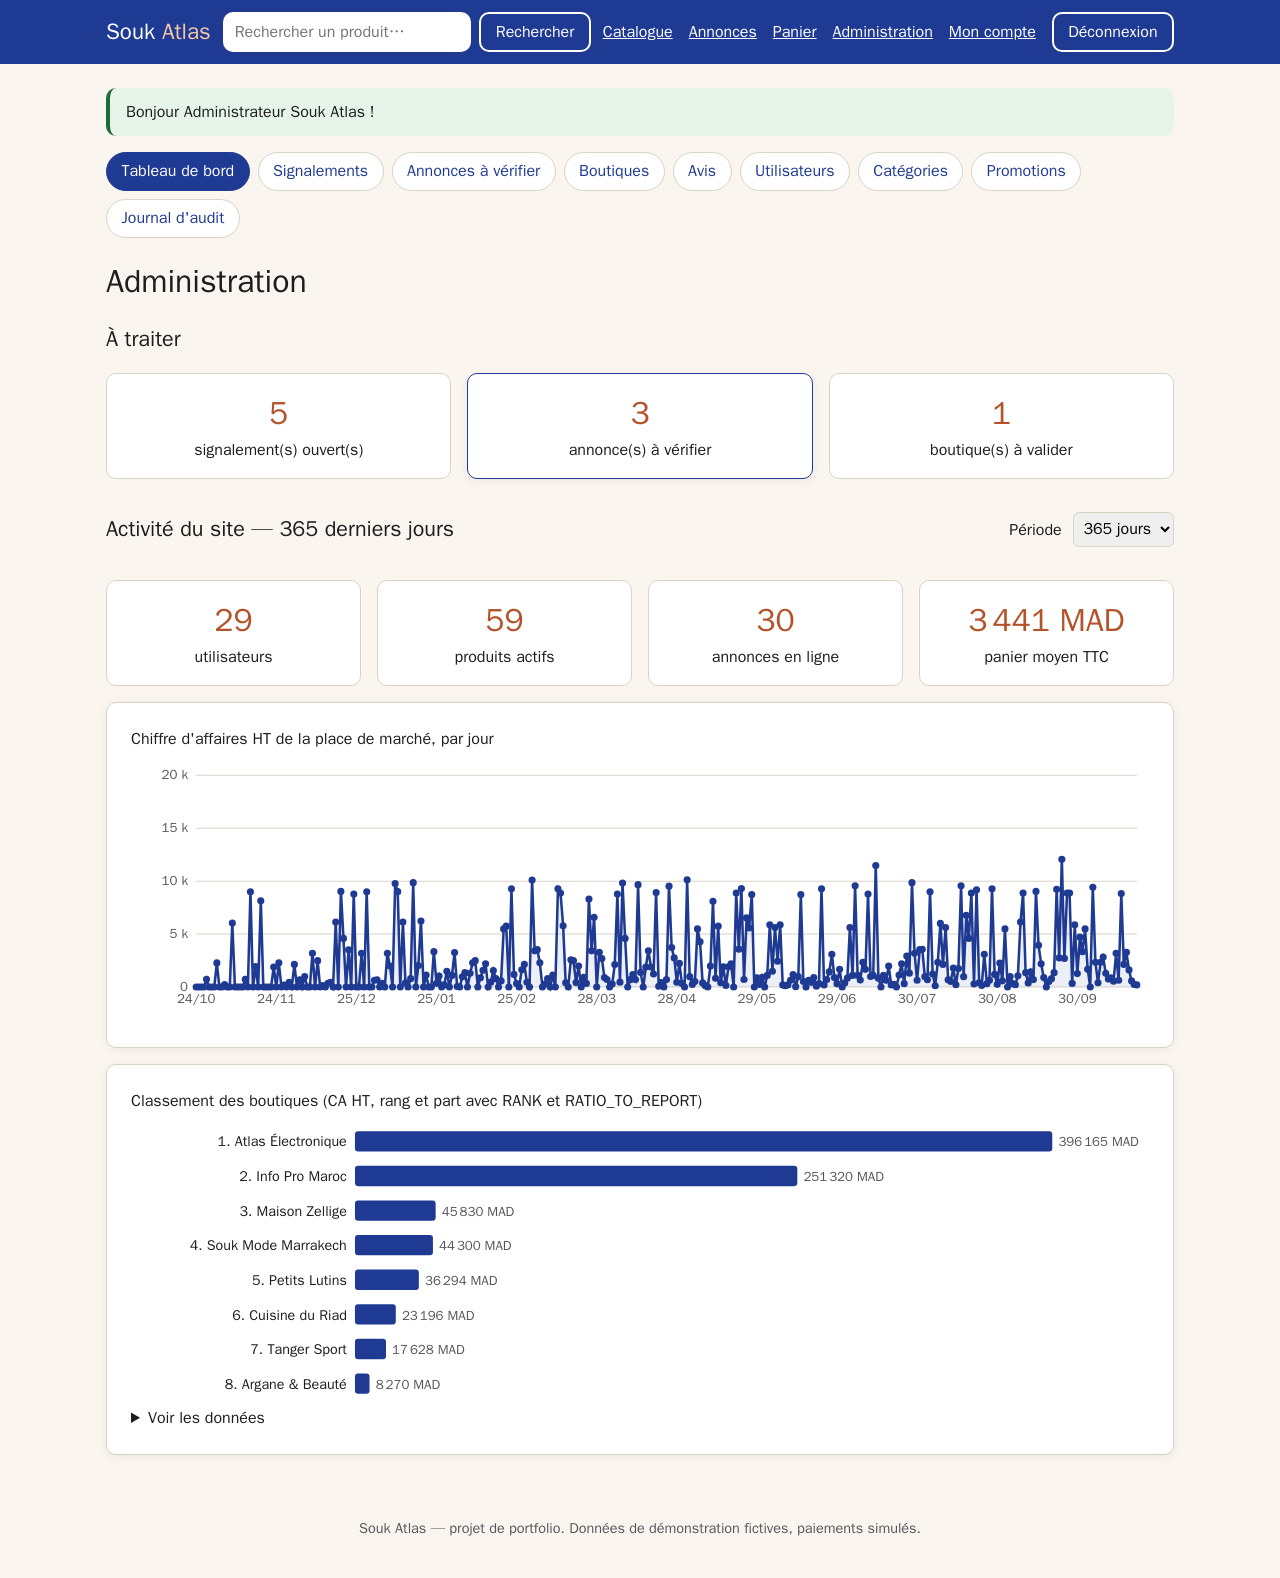
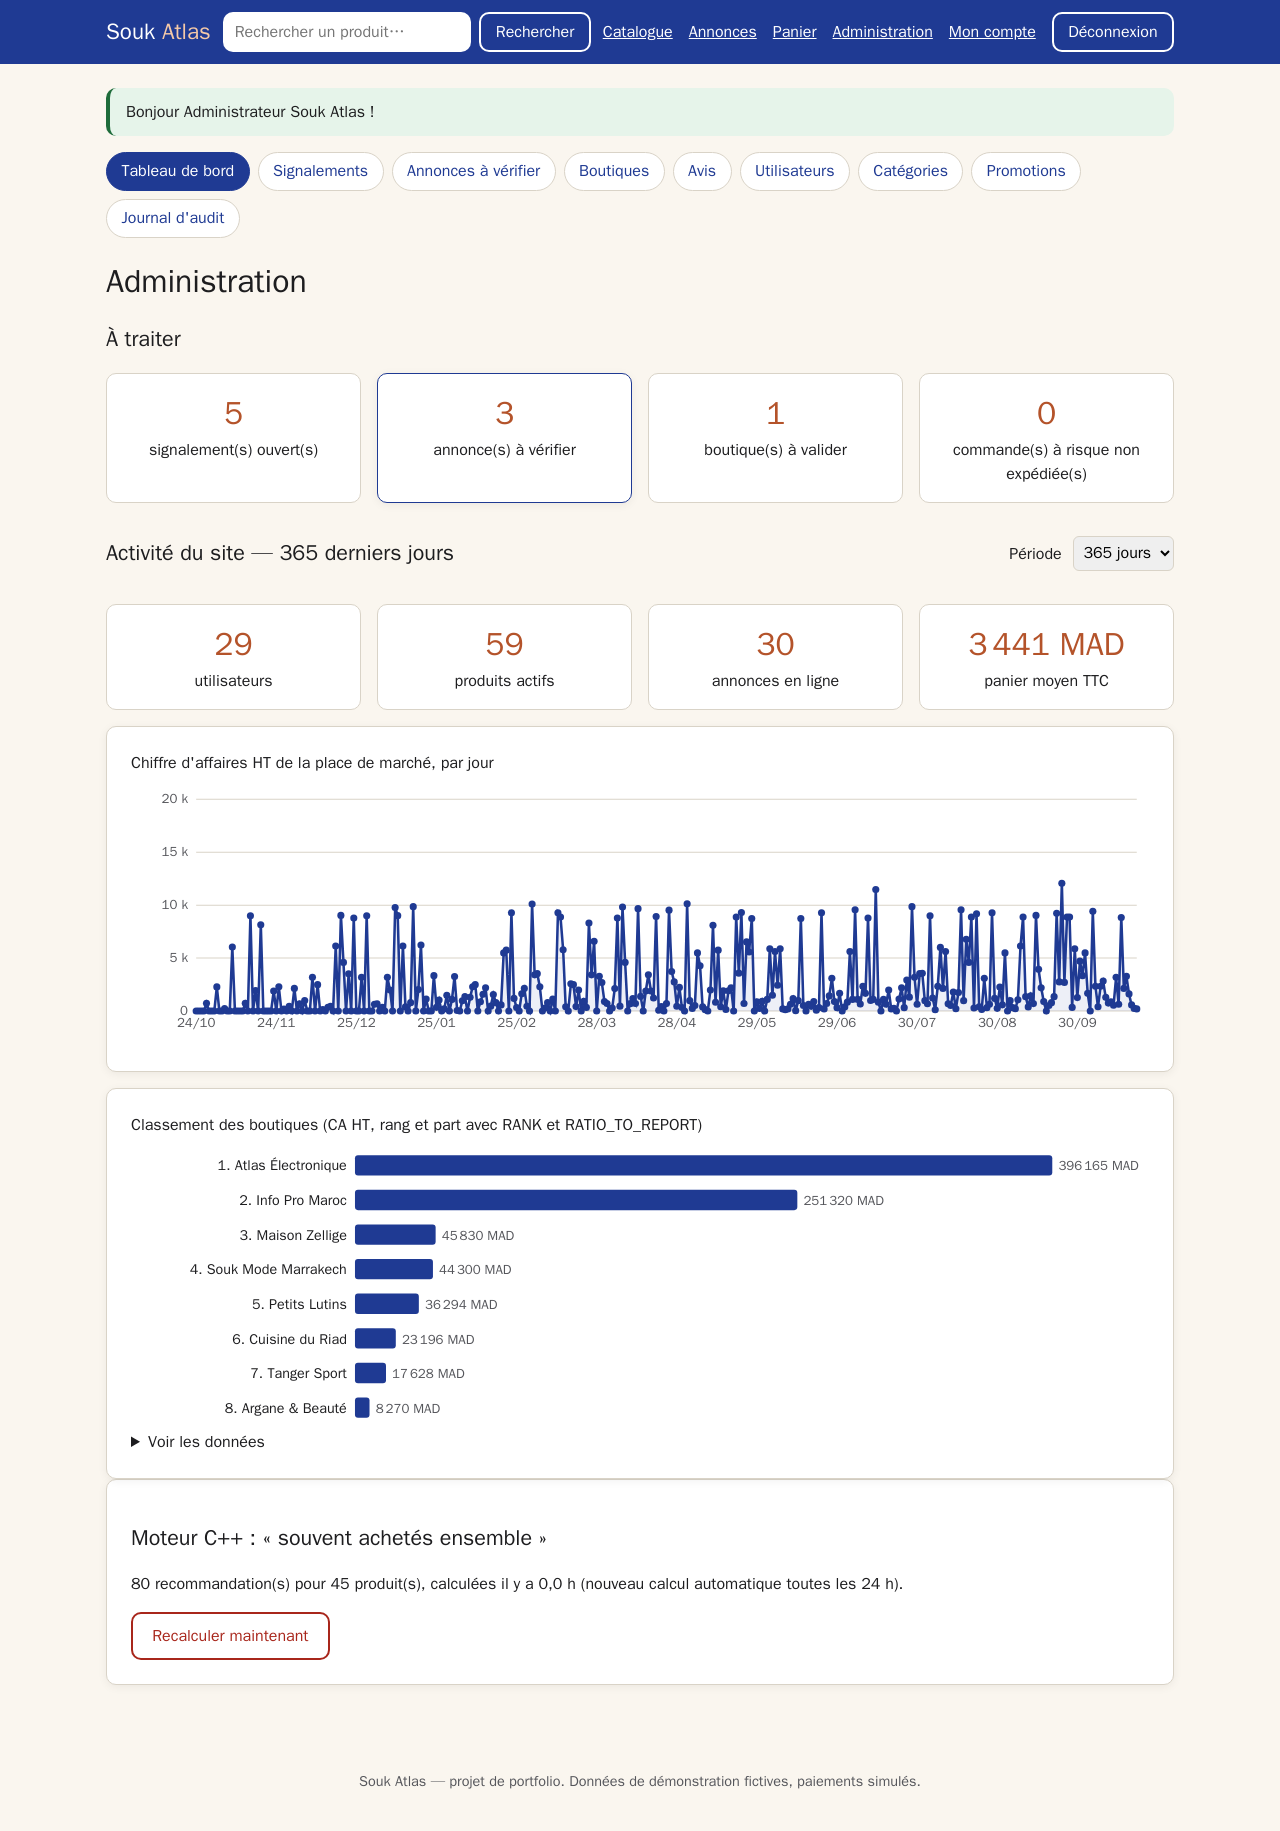
test: moteur C++ de bout en bout (HTTP, PHP, navigateur)

diff --git a/tests/navigateur/moteur.spec.js b/tests/navigateur/moteur.spec.js
@@ -1,0 +1,39 @@
+// =============================================================================
+// Tests navigateur de l'étape 8 : résultats du moteur C++ visibles sur le site.
+// Critère : « Les recommandations s'affichent sur la fiche produit ».
+// =============================================================================
+import { test, expect } from '@playwright/test';
+
+const CAPTURES = '../../docs/captures';
+
+test.beforeEach(async ({ page }) => {
+    const erreurs = [];
+    page.on('pageerror', (erreur) => erreurs.push(erreur.message));
+    page.on('console', (message) => { if (message.type() === 'error') erreurs.push(message.text()); });
+    test.info().erreursConsole = erreurs;
+});
+test.afterEach(async () => {
+    expect(test.info().erreursConsole, 'erreurs dans la console du navigateur').toEqual([]);
+});
+
+test('« Souvent achetés ensemble » : cartes affichées et cliquables', async ({ page }) => {
+    await page.goto('/produit/1');
+    const section = page.getByRole('region', { name: 'Souvent achetés ensemble' });
+    await expect(section).toBeVisible();
+    const cartes = section.locator('.carte-produit');
+    expect(await cartes.count()).toBeGreaterThanOrEqual(1);
+    expect(await cartes.count()).toBeLessThanOrEqual(4);
+
+    // Le produit recommandé recommande à son tour le produit de départ (relation symétrique)
+    const nom = await cartes.first().locator('.carte-produit__nom').innerText();
+    await cartes.first().locator('a').click();
+    await expect(page.getByRole('heading', { level: 1 })).toHaveText(nom);
+    await expect(page.getByRole('region', { name: 'Souvent achetés ensemble' }).locator('a[href="/produit/1"]')).toHaveCount(1);
+});
+
+test('capture d’écran pour le portfolio', async ({ page }) => {
+    await page.setViewportSize({ width: 1280, height: 900 });
+    await page.goto('/produit/1');
+    await page.getByRole('region', { name: 'Souvent achetés ensemble' }).scrollIntoViewIfNeeded();
+    await page.screenshot({ path: `${CAPTURES}/etape8-recommandations.png` });
+});

diff --git a/tests/php/test_unitaires.php b/tests/php/test_unitaires.php
@@ -20,6 +20,8 @@ use App\Models\Commande;
 use App\Models\CommandeVendeur;
 use App\Models\ProduitVendeur;
 use App\Models\FiltresCatalogue;
+use App\Services\CppEngine;
+use App\Services\ErreurMoteur;
 use App\Services\Mailer;
 use App\Services\Upload;
 use App\Models\Produit;
@@ -274,6 +276,41 @@ verifier('actions vendeur : commande payée → expédier ou annuler',
 verifier('actions vendeur : à la livraison, en attente → expédier ou annuler',
     array_keys(CommandeVendeur::actionsPossibles('EN_ATTENTE', 'LIVRAISON')) === ['EXPEDIEE', 'ANNULEE']);
 verifier('actions vendeur : livrée → aucune', CommandeVendeur::actionsPossibles('LIVREE', 'CARTE') === []);
+
+// ----------------------------------------------------------------- CppEngine (appel du moteur C++)
+// De faux "moteurs" (petits scripts shell) simulent chaque panne possible
+$dossierFaux = sys_get_temp_dir() . '/souk-faux-moteurs-' . getmypid();
+@mkdir($dossierFaux);
+$faux = static function (string $nom, string $script) use ($dossierFaux): string {
+    $chemin = "$dossierFaux/$nom";
+    file_put_contents($chemin, "#!/bin/sh\n$script\n");
+    chmod($chemin, 0755);
+    return $chemin;
+};
+$moteurReel = '/usr/local/bin/souk-moteur';
+if (is_executable($moteurReel)) {
+    $reponse = (new CppEngine($moteurReel))->executer(['action' => 'risque_annonce',
+        'annonce' => ['titre' => 'Téléphone URGENT', 'description' => 'virement', 'prix' => 100]]);
+    verifier('moteur réel : réponse décodée', $reponse['ok'] === true && is_int($reponse['score']));
+    verifier('moteur réel : accents conservés dans les raisons',
+        str_contains(json_encode($reponse['raisons'], JSON_UNESCAPED_UNICODE), '« urgent »'));
+    verifierException('moteur réel : action inconnue → ErreurMoteur', ErreurMoteur::class,
+        fn () => (new CppEngine($moteurReel))->executer(['action' => 'inconnue']));
+}
+verifierException('moteur absent → ErreurMoteur', ErreurMoteur::class,
+    fn () => (new CppEngine('/nulle/part/souk-moteur'))->executer(['action' => 'x']));
+verifierException('réponse non JSON → ErreurMoteur', ErreurMoteur::class,
+    fn () => (new CppEngine($faux('bavard', 'echo "Segmentation fault"')))->executer(['action' => 'x']));
+verifierException('code de sortie non nul → ErreurMoteur', ErreurMoteur::class,
+    fn () => (new CppEngine($faux('echec', 'echo \'{"ok":true}\'; exit 3')))->executer(['action' => 'x']));
+$debut = microtime(true);
+verifierException('moteur bloqué → tué après le délai', ErreurMoteur::class,
+    fn () => (new CppEngine($faux('lent', 'sleep 10'), 0.5))->executer(['action' => 'x']));
+verifier('délai respecté (moins de 2 s)', microtime(true) - $debut < 2, sprintf('%.2f s', microtime(true) - $debut));
+$echo = (new CppEngine($faux('echo', 'cat > /dev/null; echo \'{"ok":true,"recu":1}\'')))->executer(['action' => 'x']);
+verifier('faux moteur correct : réponse lue', $echo === ['ok' => true, 'recu' => 1]);
+array_map('unlink', glob("$dossierFaux/*"));
+rmdir($dossierFaux);
 
 echo "\nBILAN PHP : $ok OK, $echecs ÉCHEC\n";
 exit($echecs === 0 ? 0 : 1);
